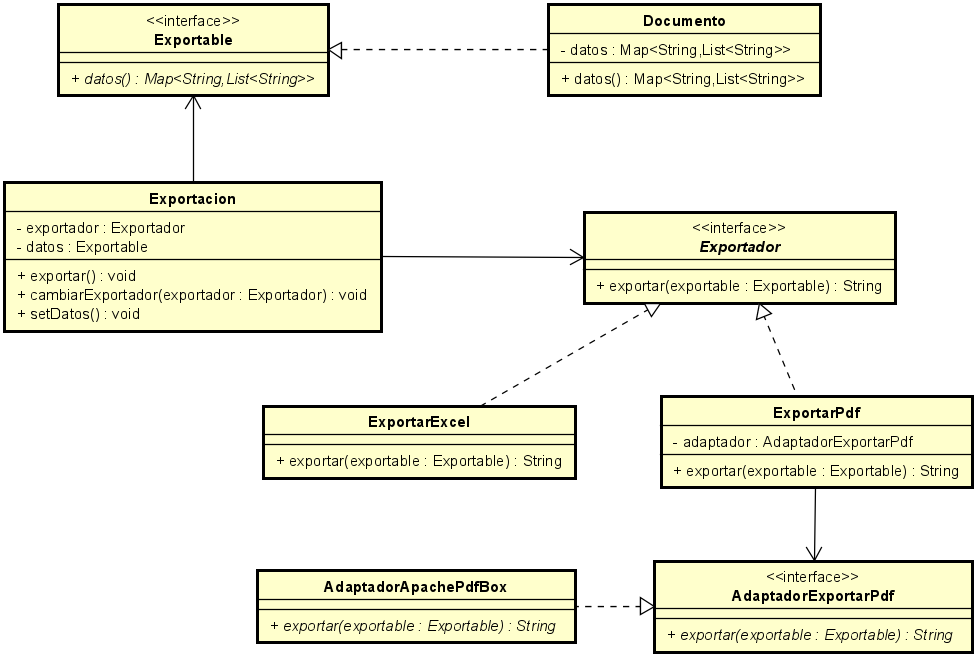
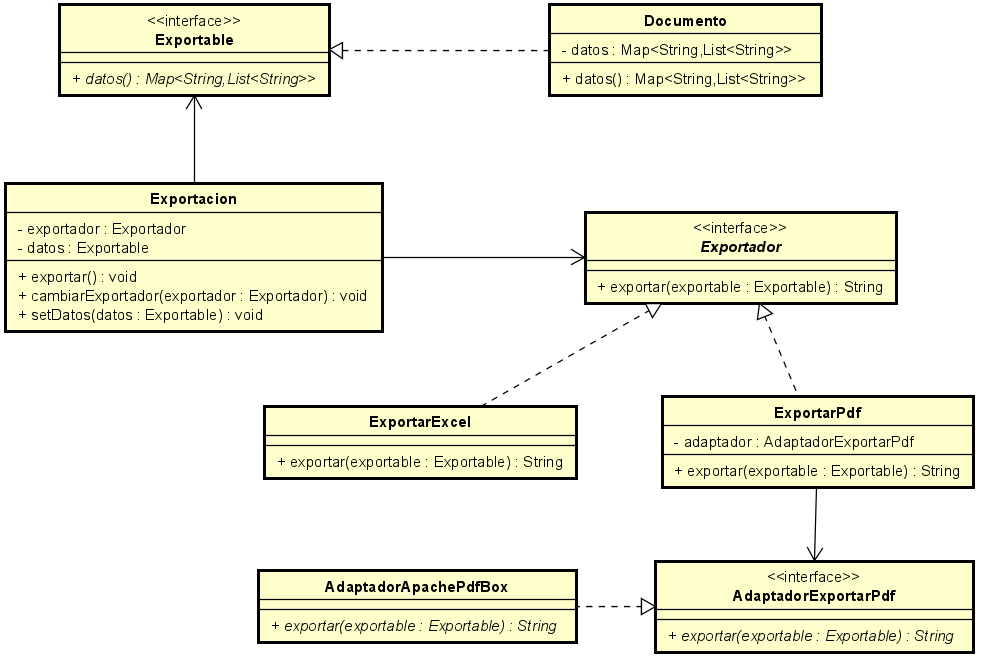
Cambiado diagrama y terminado codigo. Faltan tests

diff --git a/05-02-2023 EjercicioPropuesto Modulo-Exportador/src/main/java/com/example/exportacion/Exportacion.java b/05-02-2023 EjercicioPropuesto Modulo-Exportador/src/main/java/com/example/exportacion/Exportacion.java
@@ -1,0 +1,22 @@
+package com.example.exportacion;
+
+public class Exportacion {
+  private Exportador exportador;
+  private Exportable datos;
+
+  public Exportacion(Exportador exportador) {
+    this.exportador = exportador;
+  }
+
+  public void exportar() {
+    exportador.exportar(datos);
+  }
+
+  public void cambiarExportador(Exportador exportador) {
+    this.exportador = exportador;
+  }
+
+  public void setDatos(Exportable datos) {
+    this.datos = datos;
+  }
+}

diff --git a/05-02-2023 EjercicioPropuesto Modulo-Exportador/src/main/java/com/example/exportacion/estrategias/ExportarPdf.java b/05-02-2023 EjercicioPropuesto Modulo-Exportador/src/main/java/com/example/exportacion/estrategias/ExportarPdf.java
@@ -1,0 +1,19 @@
+package com.example.exportacion.estrategias;
+
+import com.example.exportacion.Exportable;
+import com.example.exportacion.Exportador;
+
+public class ExportarPdf implements Exportador {
+
+  private AdaptadorExportarPdf adaptador;
+
+  public ExportarPdf(AdaptadorExportarPdf adaptador) {
+    this.adaptador = adaptador;
+  }
+
+  @Override
+  public String exportar(Exportable exportable) {
+    return adaptador.exportar(exportable);
+  }
+
+}

diff --git a/05-02-2023 EjercicioPropuesto Modulo-Exportador/src/main/java/com/example/exportacion/datos/Documento.java b/05-02-2023 EjercicioPropuesto Modulo-Exportador/src/main/java/com/example/exportacion/datos/Documento.java
@@ -1,0 +1,16 @@
+package com.example.exportacion.datos;
+
+import java.util.List;
+import java.util.Map;
+
+import com.example.exportacion.Exportable;
+
+public class Documento implements Exportable {
+
+  private Map<String, List<String>> datos;
+
+  @Override
+  public Map<String, List<String>> datos() {
+    return datos;
+  }
+}

diff --git a/05-02-2023 EjercicioPropuesto Modulo-Exportador/src/main/java/com/example/exportacion/estrategias/ExportarExcel.java b/05-02-2023 EjercicioPropuesto Modulo-Exportador/src/main/java/com/example/exportacion/estrategias/ExportarExcel.java
@@ -1,0 +1,12 @@
+package com.example.exportacion.estrategias;
+
+import com.example.exportacion.Exportable;
+import com.example.exportacion.Exportador;
+
+public class ExportarExcel implements Exportador {
+
+  @Override
+  public String exportar(Exportable exportable) {
+    return "Exportado datos a Excel...";
+  }
+}

diff --git a/05-02-2023 EjercicioPropuesto Modulo-Exportador/src/main/java/com/example/exportacion/estrategias/AdaptadorApachePdfBox.java b/05-02-2023 EjercicioPropuesto Modulo-Exportador/src/main/java/com/example/exportacion/estrategias/AdaptadorApachePdfBox.java
@@ -1,0 +1,11 @@
+package com.example.exportacion.estrategias;
+
+import com.example.exportacion.Exportable;
+
+public class AdaptadorApachePdfBox implements AdaptadorExportarPdf {
+
+  @Override
+  public String exportar(Exportable exportable) {
+    return "Exportado con Apache PDFBox...";
+  }
+}

diff --git a/05-02-2023 EjercicioPropuesto Modulo-Exportador/src/main/java/com/example/exportacion/estrategias/AdaptadorExportarPdf.java b/05-02-2023 EjercicioPropuesto Modulo-Exportador/src/main/java/com/example/exportacion/estrategias/AdaptadorExportarPdf.java
@@ -1,0 +1,7 @@
+package com.example.exportacion.estrategias;
+
+import com.example.exportacion.Exportable;
+
+public interface AdaptadorExportarPdf {
+  public String exportar(Exportable exportable);
+}

diff --git a/05-02-2023 EjercicioPropuesto Modulo-Exportador/src/main/java/com/example/exportacion/Exportable.java b/05-02-2023 EjercicioPropuesto Modulo-Exportador/src/main/java/com/example/exportacion/Exportable.java
@@ -1,0 +1,8 @@
+package com.example.exportacion;
+
+import java.util.List;
+import java.util.Map;
+
+public interface Exportable {
+  public Map<String, List<String>> datos();
+}

diff --git a/05-02-2023 EjercicioPropuesto Modulo-Exportador/src/main/java/com/example/exportacion/Exportador.java b/05-02-2023 EjercicioPropuesto Modulo-Exportador/src/main/java/com/example/exportacion/Exportador.java
@@ -1,0 +1,5 @@
+package com.example.exportacion;
+
+public interface Exportador {
+  public String exportar(Exportable exportable);
+}
